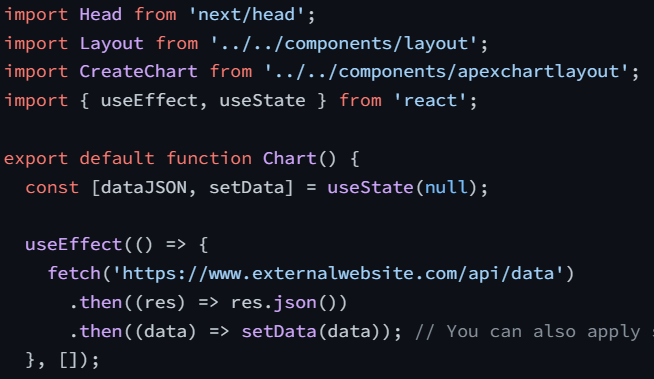
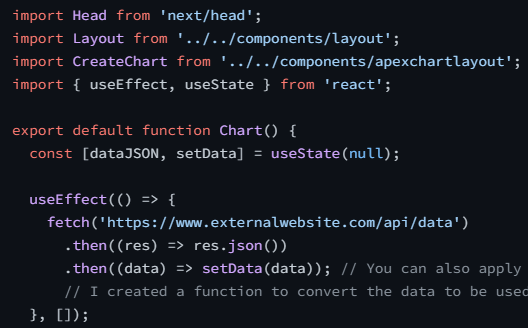
change to anonymous-pro font

diff --git a/styles/global.css b/styles/global.css
@@ -52,7 +52,7 @@ img {
 
 .hljs {
   font-size: 0.9rem;
-  font-family: 'Source Code Pro';
+  font-family: 'Anonymous Pro', monospace;
   border-radius: 10px;
   box-shadow: 5px 5px 10px var(--shadow);
   white-space: pre;
@@ -63,5 +63,5 @@ img {
   display: none;
 }
 code {
-  font-family: 'Source Code Pro';
+  font-family: 'Anonymous Pro', monospace;
 }

diff --git a/pages/_app.js b/pages/_app.js
@@ -1,7 +1,7 @@
 import '../styles/global.css';
 import Script from 'next/script';
 import '@fontsource/inter/variable-full.css';
-import '@fontsource/source-code-pro';
+import '@fontsource/anonymous-pro';
 
 export default function App({ Component, pageProps }) {
   return (

diff --git a/posts/04-nextjs-fetch.md b/posts/04-nextjs-fetch.md
@@ -19,11 +19,14 @@ import { useEffect, useState } from 'react';
 export default function Chart() {
   const [dataJSON, setData] = useState(null);
 
+// I'm using an external website, you can use local '/api/data'
+// You have to use the fetch within useEffect, cannot return.
   useEffect(() => {
     fetch('https://www.externalwebsite.com/api/data')
       .then((res) => res.json())
       .then((data) => setData(data)); // You can also apply some functions to the data.
-      // I created a function to convert the data to be used in ApexCharts.
+      // I created a function to convert the data to be used in ApexCharts
+      // setData(someFunction(data)).
   }, []);
 
 // Since the dataJSON is set to null, you need to do something until the data loads.
